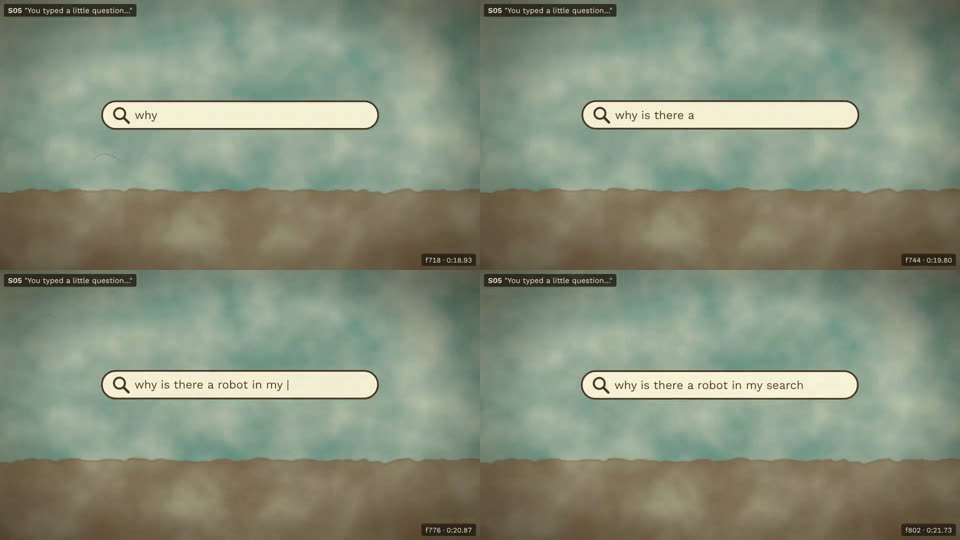
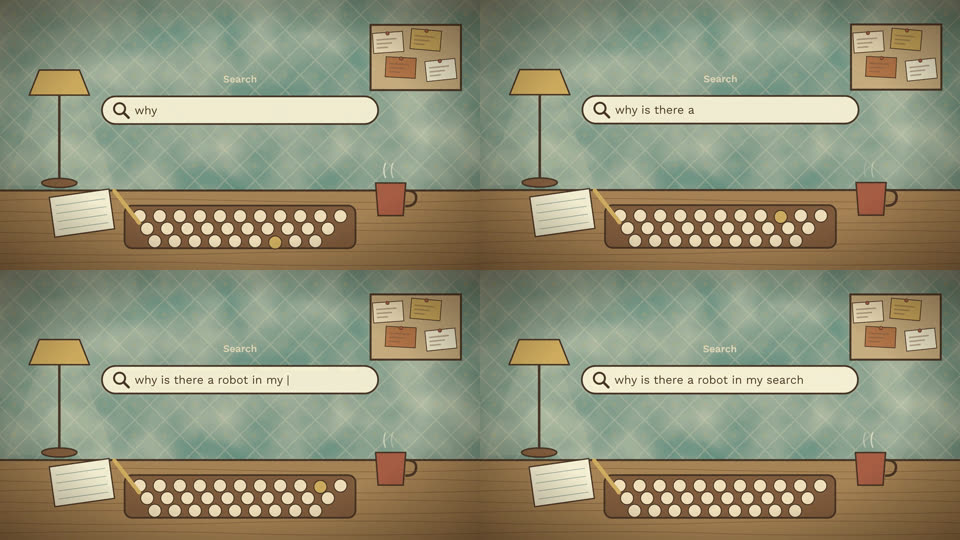
M4 section 2 (Verse 1): study-desk set, results page, hop and climb; section render script
Claude-Session: https://claude.ai/code/session_01U1tVYjDQe516Mp7MHbmFPv

diff --git a/remotion/src/shots/Intro.tsx b/remotion/src/shots/Intro.tsx
@@ -177,69 +177,139 @@ export const S04: ShotC = ({ f, g }) => {
   );
 };
 
-// S05: "You typed a little question…": a big generic search box on a desk; letters type themselves
-export const S05: ShotC = ({ f, len }) => {
+// the study desk for verse 1: diamond wallpaper on teal, a pinboard, a desk lamp, a wood-grain desktop with a
+// typewriter-style keyboard, a mug, a notepad and pencils
+const Study: React.FC<{ g: number; children: React.ReactNode; keys?: number }> = ({ g, children, keys = -1 }) => (
+  <Bg id="study" seed={5} base={C.teal}>
+    <Wallpaper id="study" kind="diamond" a={C.cream} b={C.mustard} opacity={0.22} />
+    <g transform="translate(1660, 230)">
+      <rect x={-180} y={-130} width={360} height={260} fill="#c9a26b" stroke={C.ink} strokeWidth={8} />
+      {[[-110, -60, C.cream, -4], [40, -70, C.mustard, 5], [-60, 40, C.orange, 3], [100, 50, C.white, -6]].map(([x, y, c, r], i) => (
+        <g key={i} transform={`translate(${x}, ${y}) rotate(${r})`}>
+          <rect x={-60} y={-40} width={120} height={80} fill={c as string} stroke={C.ink} strokeWidth={3} />
+          <circle cy={-36} r={7} fill={C.red} stroke={C.ink} strokeWidth={2} />
+          {[0, 1, 2].map((k) => <rect key={k} x={-46} y={-16 + k * 16} width={80 - k * 18} height={6} fill={C.inkSoft} opacity={0.5} />)}
+        </g>
+      ))}
+    </g>
+    <g transform="translate(240, 540)"><Lamp /></g>
+    {/* the desktop */}
+    <rect x={-20} y={760} width={W + 40} height={340} fill="#a8703e" stroke={C.ink} strokeWidth={8} />
+    {Array.from({ length: 7 }, (_, i) => <path key={i} d={`M-20,${800 + i * 42} q${400 + i * 30},${-14 + (i % 2) * 28} ${960},0 t${980},0`} stroke={C.cardiganShade} strokeWidth={3} fill="none" opacity={0.5} />)}
+    {/* keyboard: three rows of round keys; the one being typed dips */}
+    <g transform="translate(960, 900)">
+      <rect x={-460} y={-80} width={920} height={170} rx={30} fill={C.cardigan} stroke={C.ink} strokeWidth={7} />
+      {[0, 1, 2].map((r) => Array.from({ length: 11 - r }, (_, i) => {
+        const k = r * 11 + i, down = k === keys;
+        return <circle key={k} cx={-400 + r * 30 + i * 80} cy={-38 + r * 50 + (down ? 5 : 0)} r={26} fill={down ? C.mustard : C.cream} stroke={C.ink} strokeWidth={4} />;
+      }))}
+    </g>
+    <g transform="translate(1560, 820)">
+      <path d="M-60,-90 L60,-90 L50,40 L-50,40 Z" fill={C.red} stroke={C.ink} strokeWidth={6} />
+      <path d="M60,-60 q50,0 40,40 q-8,24 -42,22" fill="none" stroke={C.ink} strokeWidth={10} />
+      {[0, 1].map((k) => <path key={k} d={`M${-20 + k * 30},-110 q-14,-30 0,-60`} fill="none" stroke={C.white} strokeWidth={5} opacity={0.5 + 0.3 * Math.sin(g / 8 + k)} />)}
+    </g>
+    <g transform="translate(330, 850) rotate(-8)">
+      <rect x={-120} y={-80} width={240} height={160} fill={C.white} stroke={C.ink} strokeWidth={5} />
+      {[0, 1, 2, 3].map((k) => <line key={k} x1={-100} x2={100} y1={-44 + k * 32} y2={-44 + k * 32} stroke={C.teal} strokeWidth={3} opacity={0.6} />)}
+      <line x1={140} y1={-70} x2={220} y2={70} stroke={C.mustard} strokeWidth={16} strokeLinecap="round" />
+    </g>
+    {children}
+  </Bg>
+);
+
+// S05: "You typed a little question…": a big generic search box; letters type themselves, a key dips with each
+export const S05: ShotC = ({ f, g, len }) => {
   const q = "why is there a robot in my search";
   const n = Math.min(q.length, Math.floor((f / (len * 0.8)) * q.length));
   return (
-    <Bg id="s05" seed={5} base={C.teal}>
-      <Wash id="s05" color={C.cardigan} opacity={0.8}><rect x={-40} y={760} width={W + 80} height={400} /></Wash>
-      <g transform={`translate(${W / 2}, 460)`}><SearchBox text={q.slice(0, n)} caret={f % 20 < 10} /></g>
-    </Bg>
+    <Study g={g} keys={n < q.length ? (n * 7) % 30 : -1}>
+      <g transform="translate(960, 440)"><SearchBox text={q.slice(0, n)} caret={f % 20 < 10} /></g>
+      <text x={960} y={330} textAnchor="middle" fontFamily={SANS} fontWeight={600} fontSize={40} fill={C.cream} opacity={0.85}>Search</text>
+    </Study>
   );
 };
 
-// S06: "And an answer hopped on top of it…": an answer box with legs hops onto the links and sits on them
-export const S06: ShotC = ({ f, len }) => {
+// the links page under the search box: titles (teal bars), grey snippet lines and a small round icon per result
+const LinkPage: React.FC<{ squash: number }> = ({ squash }) => (
+  <g transform={`scale(1, ${1 - squash * 0.72})`}>
+    <rect x={-520} y={-40} width={1040} height={430} rx={16} fill={C.white} stroke={C.ink} strokeWidth={6} />
+    {Array.from({ length: 4 }, (_, i) => (
+      <g key={i} transform={`translate(-470, ${i * 95})`}>
+        <circle cx={14} cy={10} r={14} fill={[C.orange, C.avocado, C.mustard, C.red][i]} stroke={C.ink} strokeWidth={3} />
+        <rect x={44} y={0} width={420 - (i % 2) * 80} height={20} rx={6} fill={C.teal} />
+        <rect x={44} y={34} width={820} height={12} rx={5} fill={C.creamShade} />
+        <rect x={44} y={54} width={640 - i * 40} height={12} rx={5} fill={C.creamShade} />
+      </g>
+    ))}
+  </g>
+);
+
+// S06: "And an answer hopped on top of it…": an answer box with legs hops onto the links and sits on them, squashing
+// them flat; a dust puff and squish marks where it lands
+export const S06: ShotC = ({ f, g, len }) => {
   const land = len * 0.45;
   const p = ez(f, 0, land);
-  const y = 160 + p * 280 - Math.sin(p * Math.PI) * 240;
+  const y = 300 + p * 150 - Math.sin(p * Math.PI) * 120; // in from the left, a low hop, landing on the first links
   const sq = Math.min(1, Math.max(0, (f - land) / 4)) * (1 - bump(f, land + 8, 10) * 0.3);
+  const puff = f > land ? ez(f, land, land + 14) : 0;
   return (
-    <Bg id="s06" seed={6} base={C.teal}>
-      <g transform={`translate(${W / 2}, 230)`}><SearchBox text="why is there a robot in my search" caret={false} /></g>
-      <g transform={`translate(${W / 2}, ${600 + sq * 40})`}><Links squash={sq} /></g>
-      <g transform={`translate(${W / 2 - 300 + p * 300}, ${y + 200})`}>
-        <AnswerBox legs={f < land ? 1 : 0.3} squash={bump(f, land, 5)} mouth={f > land + 10 ? "D" : "X"} />
+    <Study g={g}>
+      <g transform="translate(960, 150)"><SearchBox text="why is there a robot in my search" caret={false} /></g>
+      <g transform={`translate(960, ${330 + sq * 40})`}><LinkPage squash={sq} /></g>
+      {puff > 0 && puff < 1 && [-1, 1].map((k) => [0, 1, 2].map((j) => (
+        <circle key={`${k}${j}`} cx={960 + k * (280 + puff * 140 + j * 50)} cy={540 - j * 26 - puff * 30 - 20} r={(30 - j * 6) * (1 - puff * 0.6)} fill={C.cream} stroke={C.ink} strokeWidth={3} opacity={1 - puff} />
+      )))}
+      {f < land && <g opacity={0.6}>{[0, 1, 2].map((k) => <line key={k} x1={960 - 700 + p * 700 - 300 - k * 30} y1={y - 40 + k * 30} x2={960 - 700 + p * 700 - 400 - k * 30} y2={y - 20 + k * 30} stroke={C.ink} strokeWidth={5} strokeLinecap="round" />)}</g>}
+      <g transform={`translate(${960 - 700 + p * 700}, ${y})`}>
+        <AnswerBox legs={f < land ? 1 : 0.3} squash={bump(f, land, 5)} mouth={f > land + 10 ? (f % 12 < 6 ? "D" : "C") : "X"} />
       </g>
-    </Bg>
+    </Study>
   );
 };
 
 // S07: V02 "That's neat, but what if I would rather read the page myself?": Switch lifts a corner of the answer box
-// and peeks at the squashed links
+// and peeks at the squashed links underneath; a sweat drop on the strain
 export const S07: ShotC = ({ f, g }) => {
   const lift = ez(f, 8, 26);
   return (
-    <Bg id="s07" seed={7} base={C.teal}>
-      <g transform={`translate(${W / 2}, 620)`}><Links squash={0.75} /></g>
-      <g transform={`translate(${W / 2}, ${560 - lift * 30}) rotate(${-lift * 9}, 260, 100)`}><AnswerBox legs={0.3} /></g>
-      <g transform={`translate(${W / 2 + 420}, 720) scale(0.62)`}>
+    <Study g={g}>
+      <g transform="translate(960, 490)"><LinkPage squash={0.72} /></g>
+      <g transform={`translate(960, ${520 - lift * 30}) rotate(${-lift * 9}, 260, 100)`}><AnswerBox legs={0.3} /></g>
+      <g transform={`translate(1390, 640) scale(${0.62 * breath(g, 3)})`}>
         <Switch pose="curious" mouth={mouthAt(g, "switch")} look={[-0.9, 0.3]} armL={110 + lift * 30} blink={blink(g, 1)} />
+        {lift > 0.6 && <path d="M120,-200 q14,24 0,34 q-14,-10 0,-34 Z" fill={C.white} stroke={C.ink} strokeWidth={4} />}
       </g>
-    </Bg>
+    </Study>
   );
 };
 
-// S08: "Well, there's a tiny tab marked 'Web'…": Switch climbs a wobbling ladder to a tiny "Web" tab on a high shelf
+// S08: "Well, there's a tiny tab marked 'Web'…": Switch climbs a wobbling ladder, rung by rung, to a tiny "Web" tab
+// on the highest shelf of a tall bookcase; the Narrator points the way
 export const S08: ShotC = ({ f, g, len }) => {
   const climb = ez(f, 6, len - 10);
-  const wob = Math.sin(f / 3) * 3;
+  const step = Math.floor(climb * 8);
+  const wob = Math.sin(f / 3) * 3 + (f % 10 < 2 ? 1.5 : 0);
   return (
     <Bg id="s08" seed={8} base={C.mustard}>
-      <rect x={1000} y={180} width={700} height={30} fill={C.cardigan} stroke={C.ink} strokeWidth={6} />
-      <g transform="translate(1520, 150)">
+      <Wallpaper id="s08" kind="stripe" a={C.mustard} b={C.cream} opacity={0.2} />
+      <g transform="translate(1520, 1080)"><Bookshelf w={520} shelves={7} seed={5} /></g>
+      <g transform="translate(1660, 108)">
         <rect x={-42} y={-30} width={84} height={34} rx={6} fill={C.white} stroke={C.ink} strokeWidth={4} />
         <text textAnchor="middle" y={-4} fontFamily={SANS} fontWeight={600} fontSize={24} fill={C.ink}>Web</text>
+        <path d="M-60,-50 l-20,-20 M60,-50 l20,-20 M0,-50 v-24" stroke={C.cream} strokeWidth={5} strokeLinecap="round" opacity={0.5 + 0.5 * Math.sin(f / 5)} />
       </g>
-      <g transform={`translate(1240, 1000) rotate(${wob - 8})`}>
-        {[-70, 70].map((x) => <line key={x} x1={x} y1={0} x2={x * 0.7} y2={-840} stroke={C.ink} strokeWidth={14} strokeLinecap="round" />)}
-        {Array.from({ length: 8 }, (_, i) => <line key={i} x1={-66 + i * 2} y1={-60 - i * 100} x2={66 - i * 2} y2={-60 - i * 100} stroke={C.ink} strokeWidth={10} />)}
+      <g transform={`translate(1180, 1040) rotate(${wob - 8})`}>
+        {[-70, 70].map((x) => <line key={x} x1={x} y1={0} x2={x * 0.7} y2={-900} stroke={C.cardigan} strokeWidth={20} strokeLinecap="round" />)}
+        {[-70, 70].map((x) => <line key={`i${x}`} x1={x} y1={0} x2={x * 0.7} y2={-900} stroke={C.ink} strokeWidth={4} strokeLinecap="round" opacity={0.6} />)}
+        {Array.from({ length: 9 }, (_, i) => <line key={i} x1={-66 + i * 2} y1={-60 - i * 100} x2={66 - i * 2} y2={-60 - i * 100} stroke={C.cardigan} strokeWidth={14} />)}
       </g>
-      <g transform={`translate(${1240 + wob}, ${880 - climb * 560}) scale(0.5) rotate(${wob})`}>
-        <Switch pose="curious" look={[0.6, -0.9]} armL={150} armR={150} blink={blink(g, 2)} />
+      <g transform={`translate(${1180 + wob}, ${900 - step * 80 - (climb * 8 - step) * 30}) scale(0.5) rotate(${wob})`}>
+        <Switch pose="curious" look={[0.6, -0.9]} armL={step % 2 ? 165 : 140} armR={step % 2 ? 140 : 165} blink={blink(g, 2)} />
       </g>
-      <g transform="translate(560, 420) scale(0.8)"><Narrator mouth={mouthAt(g, "narrator")} armR="point" head={1} /></g>
+      <rect x={-20} y={1000} width={W + 40} height={100} fill={C.cardigan} stroke={C.ink} strokeWidth={6} />
+      {/* the Narrator framed from the chest up, cropped by the frame's bottom edge */}
+      <g transform={`translate(430, ${850 - (breath(g) - 1) * 200}) scale(0.9)`}><Narrator mouth={mouthAt(g, "narrator")} armR="point" head={1} blink={blink(g)} /></g>
     </Bg>
   );
 };

diff --git a/log/production_log.md b/log/production_log.md
@@ -119,3 +119,10 @@ Append-only. One entry per action: timestamp, step (shot ID where relevant), wha
   - **Switch's rig:** shut eyes are now a curved lid line with lashes (they read as empty circles before).
 - **Commands:** stills of `Sec01-Intro` at frames 140–588 for review; `npx remotion render src/index.ts Sec01-Intro ../renders/m4/sec01_intro.mp4 --concurrency=8 --crf=18` (2 min 25 s); `python3 -I scripts/contact_sheets.py renders/m4/sec01_intro.mp4 0 659`
 - **Outputs:** `renders/m4/sec01_intro.mp4` (1920x1080, 659 frames, with audio), `review/S00–S04.jpg`
+
+## 2026-11-06T11:30:00-05:00 — M4 detail pass: section 2, Verse 1 (S05–S08)
+
+- **What:** A study-desk set for S05–S07: diamond wallpaper on teal, a pinboard of notes, a floor lamp, a wood-grain desktop with a round-key keyboard (a key dips with each typed letter), a steaming mug, a notepad and pencil. The search page under the box now has results (an icon, a title bar and two snippet lines each). S06: the answer box comes in from the left on a low hop with speed lines and lands on the first results (a dust puff; they squash flat). S07: Switch lifts its corner with a strain and a sweat drop. S08: a tall bookcase of seven shelves with the tiny "Web" tab glinting on top, a wooden ladder Switch climbs rung by rung, alternating arms, and the Narrator framed chest-up, cropped by the frame edge rather than floating.
+- **Agent review:** stills before the render caught the Narrator floating waist-up in S08 and S06's hop covering the search box and landing below the page; both fixed.
+- **Commands:** `scripts/m4_section.sh Sec02-Verse1 sec02_verse1` (new: render, contact sheets, CRF 26 review copy)
+- **Outputs:** `renders/m4/sec02_verse1.mp4`, `renders/m4/review/sec02_verse1_review.mp4`, `review/S05–S08.jpg`

diff --git a/log/renders.md b/log/renders.md
@@ -40,3 +40,8 @@ Every render: timestamp, shot ID, composition, props, commit hash, output, conta
 - **Command:** `npx remotion render src/index.ts Sec01-Intro ../renders/m4/sec01_intro.mp4 --log=error --concurrency=8 --crf=18`
 - **Commit:** built on 89f1d11 + the changes committed with this entry.
 - **Output:** `renders/m4/sec01_intro.mp4`; contact sheets `review/S00.jpg`–`S04.jpg`.
+
+## 2026-11-06T11:28 — M4 section 2, Verse 1
+
+- **Shots:** S05–S08. **Composition:** `Sec02-Verse1` (`Cut`), 1920x1080, 480 frames. **Command:** `scripts/m4_section.sh Sec02-Verse1 sec02_verse1`. **Commit:** built on 0e786d4 + this entry's changes.
+- **Output:** `renders/m4/sec02_verse1.mp4`, review copy `renders/m4/review/sec02_verse1_review.mp4`; contact sheets `review/S05–S08.jpg`.

diff --git a/log/human_interventions.md b/log/human_interventions.md
@@ -61,3 +61,8 @@ Every human action: timestamp, what, why, and which rule allows it. The brief al
 
 - **What:** The human: "Yes keep going, just make sure to add detail (it seems a lot was omitted for a fast pass)".
 - **Rule:** H2. The detail note applies to M4's final renders, section by section.
+
+## 2026-11-06T11:10 — M4 section 1 (Intro) approved; detail level confirmed — H2
+
+- **What:** The human: "The level of detail appears to be good. Keep going."
+- **Rule:** H2 (section approval).
